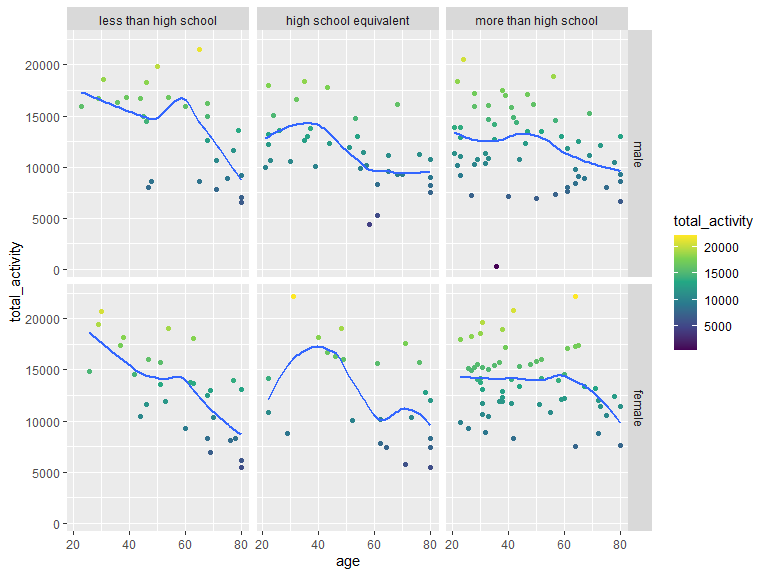
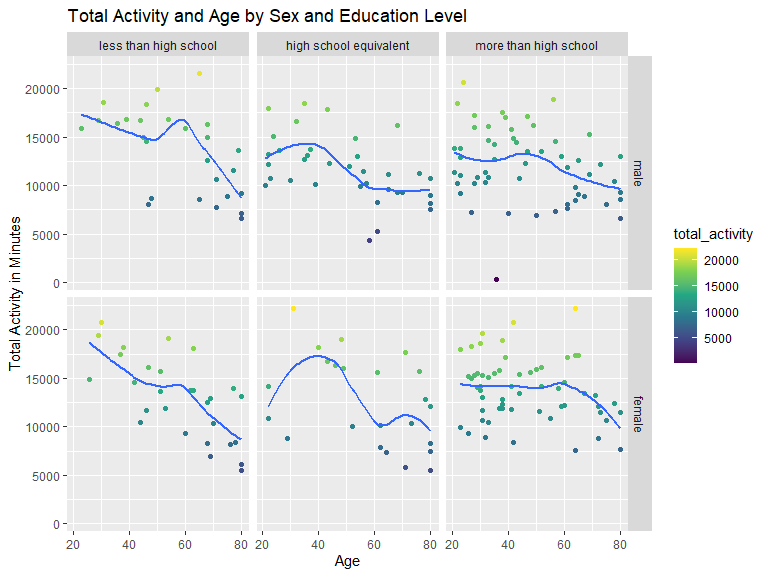
labels added to total activity graph

diff --git a/p8105_hw3_mgw2144.md b/p8105_hw3_mgw2144.md
@@ -262,7 +262,8 @@ total_act_plot =
   ggplot(aes(x = age, y = total_activity, color = total_activity)) +
   geom_point() +
   geom_smooth(se = FALSE) +
-  facet_grid(sex~education)
+  facet_grid(sex~education) +
+  labs(title = "Total Activity and Age by Sex and Education Level", x = "Age", y = "Total Activity in Minutes")
 
 total_act_plot
 ```
